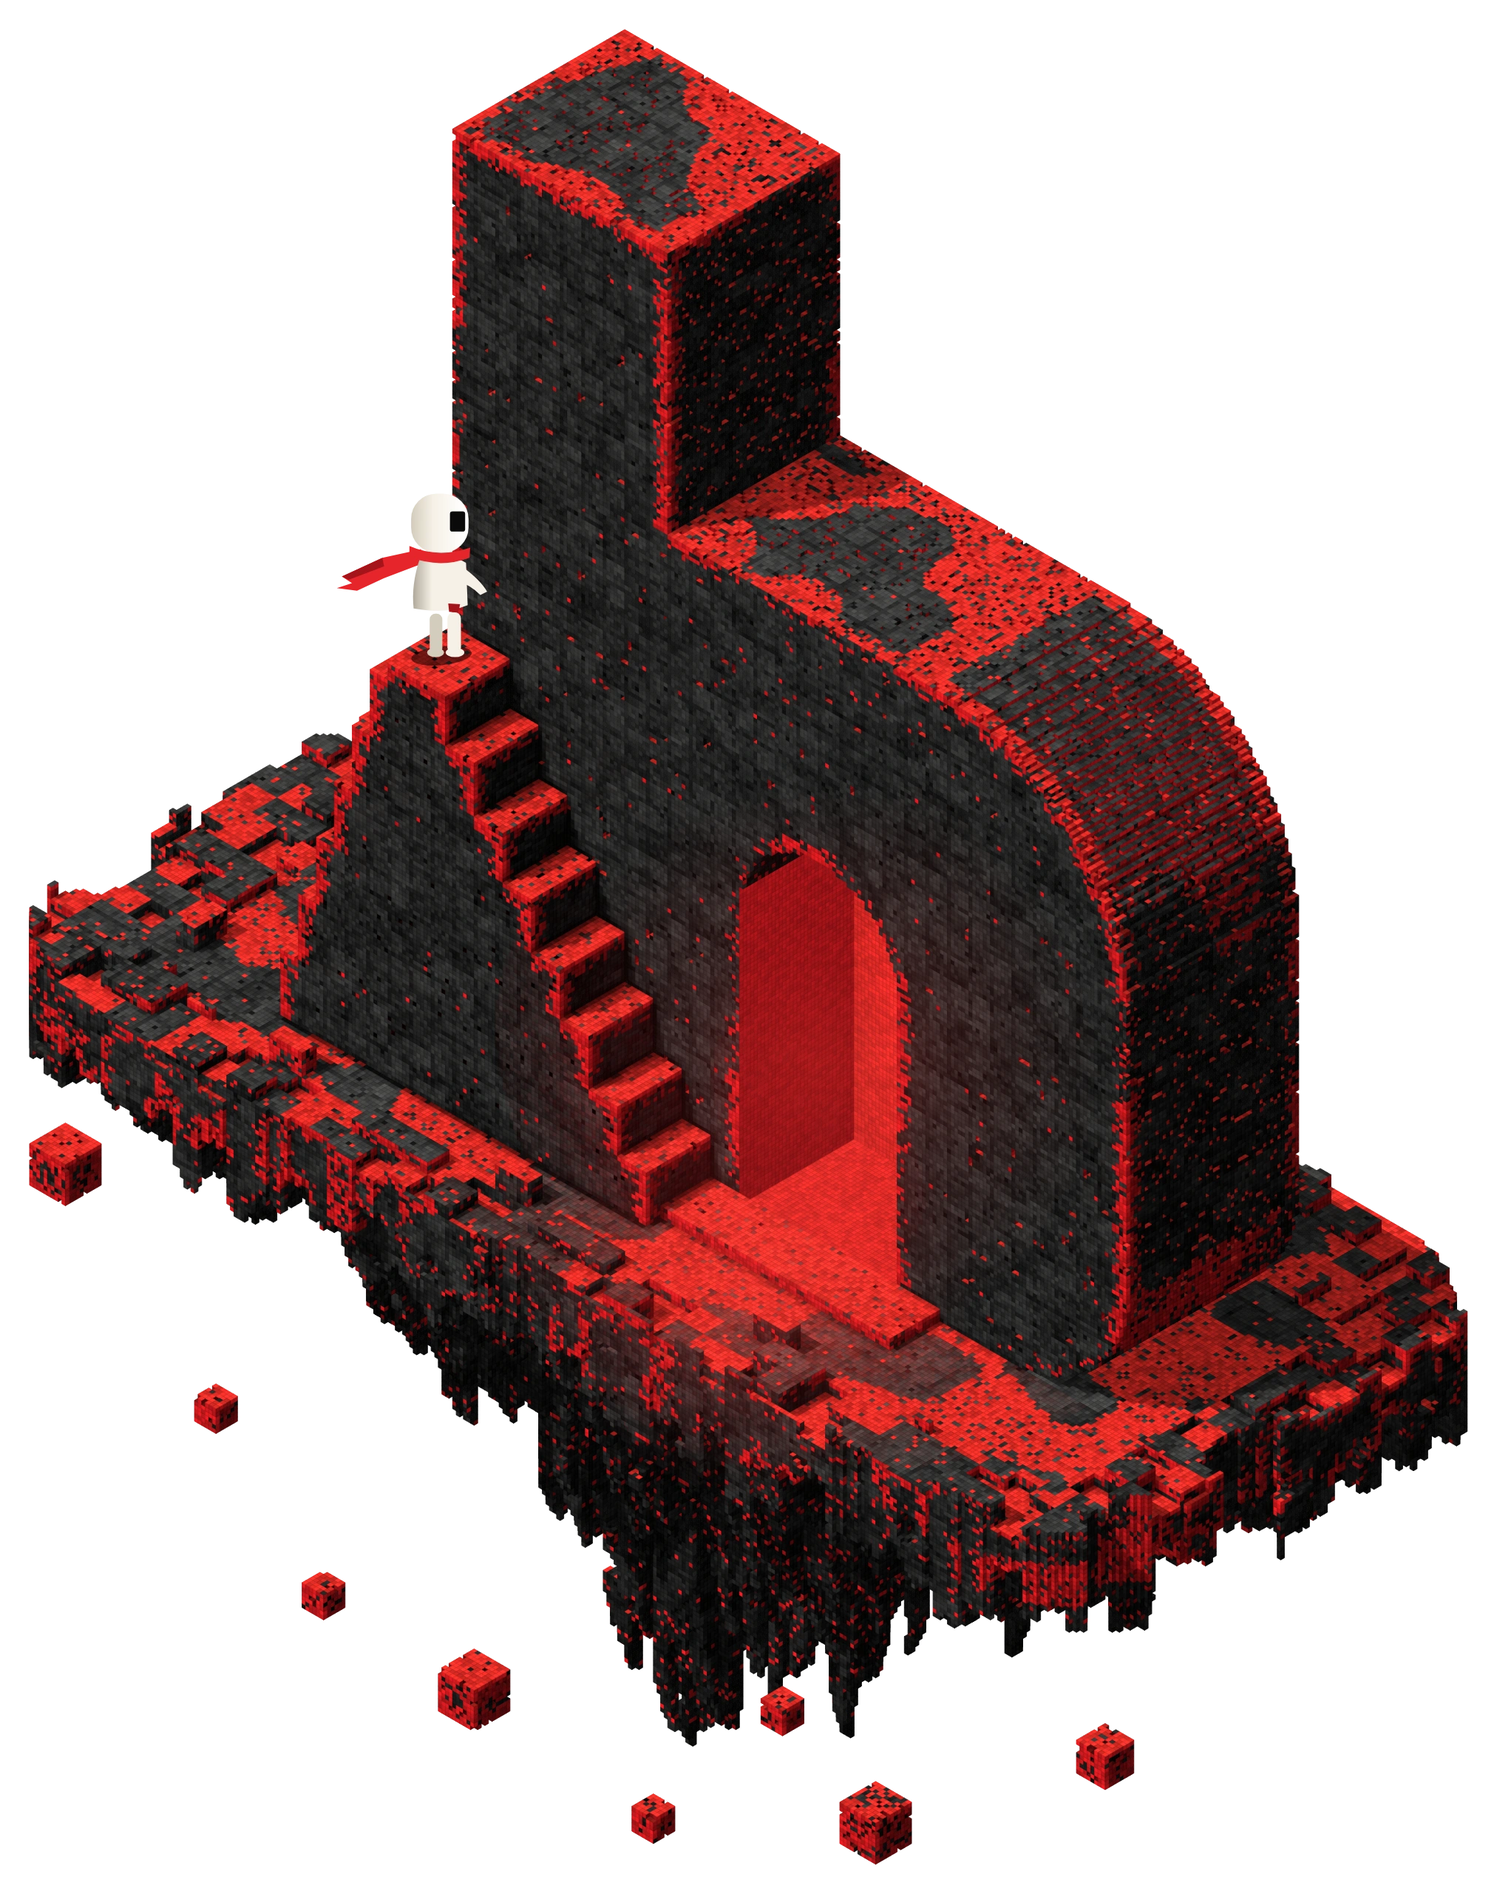
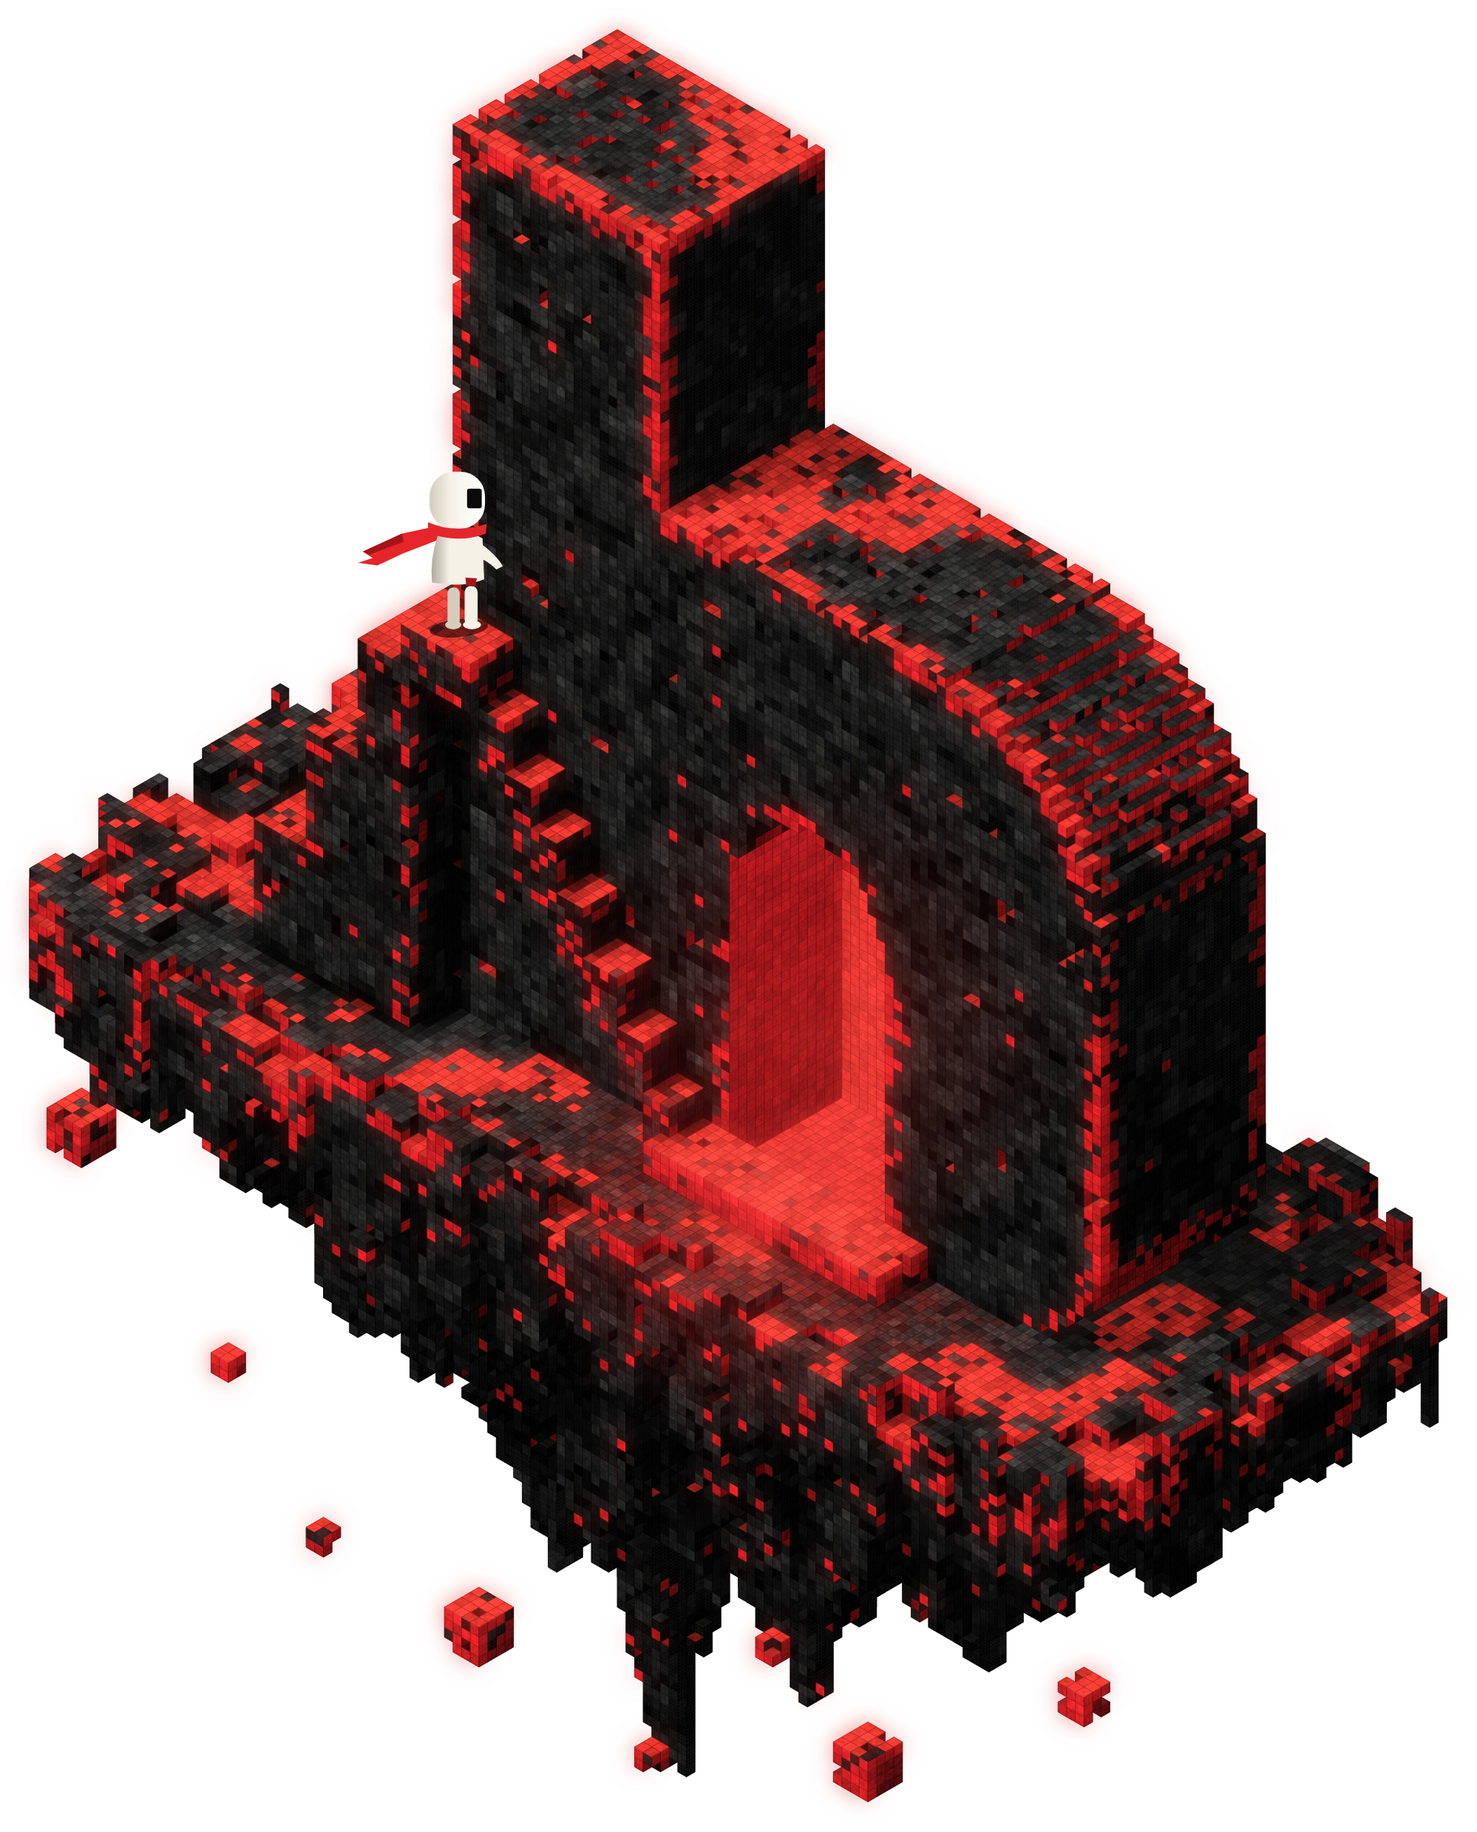
Rework sculpture: chunkier blocks, darker stone, red-only glow, reference-style stairs
- coarser voxel grid with painterly sub-texture and bevelled block edges
- near-black stone with bright red tops and rim light; glow limited to red surfaces
- left side is a block of big steps, right side a thin ribbon of steps to the door
- compact floating foundation with larger rim cubes tapering to points

Claude-Session: https://claude.ai/code/session_01QzWKhTYrrY3Jd26DSiS11Q

diff --git a/tools/sculpture-render.js b/tools/sculpture-render.js
@@ -15,9 +15,10 @@
   var canvas = document.getElementById('sculpture');
   var ctx = canvas.getContext('2d');
 
-  var K = 2;                     // voxels per unit (unit = layout coordinates below)
-  var PX_PER_VOXEL = 5.6;        // output scale
-  var UNIT_PX = PX_PER_VOXEL * K;
+  var K = 0.8;                   // voxels per unit (unit = layout coordinates below); smaller = chunkier blocks
+  function R(v) { return Math.round(v * K); }
+  var UNIT_PX = 10.8;            // output scale, px per unit
+  var PX_PER_VOXEL = UNIT_PX / K;
 
   /* ---------- palette (red tied to DESIGN.md #D51D22) ---------- */
   var RED_TOP = [255, 54, 46];
@@ -48,8 +49,8 @@
   }
 
   /* ---------- voxel grid (indices are voxels; geometry is written in units) ---------- */
-  var OX = 44 * K, OY = 56 * K, OZ = 112 * K;
-  var NX = 200 * K, NY = 124 * K, NZ = 250 * K;
+  var OX = R(44), OY = R(56), OZ = R(112);
+  var NX = R(200), NY = R(124), NZ = R(250);
   var solid = new Uint8Array(NX * NY * NZ);
   var chips = [];                 // voxels removed after the clean shape is captured (weathering)
   var shape = null;               // clean shape, used for rim light so chips do not read as edges
@@ -88,37 +89,35 @@
     return inCircle(X, Z, DOOR.cx, DOOR.zRect, DOOR.r);
   }
 
-  // left flight climbs to the landing, right flight descends to the doorway
-  var STAIR_X0 = 9;
-  function stairTop(X) {
-    if (X < STAIR_X0) return 0;
-    if (X < LANDING.x0) return 8 * (Math.floor((X - STAIR_X0) / 2.5) + 1);
-    if (X < LANDING.x1) return LANDING.z;
-    var k = Math.floor((X - LANDING.x1) / 4);
-    var z = LANDING.z - 6.25 * k;
-    return z > 3 ? z : 0;
+  // Left: a block of big steps climbing to the landing. Right: a thin ribbon of
+  // small steps stepping down the wall to the doorway.
+  function leftTop(X) {
+    if (X < 1) return 0;
+    return Math.min(45, 15 * (Math.floor((X - 1) / 7.5) + 1));
   }
+  var RIBBON = { x0: 28, run: 4, rise: 6, h: 8, steps: 8 };
 
   function buildLetter() {
     var i, j, k;
     // main body
-    for (i = STEM.x0 * K; i < BOWL.x1 * K; i++) {
+    for (i = R(STEM.x0); i < R(BOWL.x1); i++) {
       var X = un(i);
-      for (k = 0; k < STEM.h * K; k++) {
+      for (k = 0; k < R(STEM.h); k++) {
         var Z = un(k);
         if (!inLetter(X, Z)) continue;
-        var edge = !inLetter(X - 0.6, Z) || !inLetter(X + 0.6, Z) || !inLetter(X, Z - 0.6) || !inLetter(X, Z + 0.6);
-        for (j = 0; j < BODY_Y1 * K; j++) {
-          if (inDoorOpening(X, Z) && j >= (BODY_Y1 - DOOR.recess) * K) continue; // doorway recess
+        var eps = 0.5 / K + 0.1;
+        var edge = !inLetter(X - eps, Z) || !inLetter(X + eps, Z) || !inLetter(X, Z - eps) || !inLetter(X, Z + eps);
+        for (j = 0; j < R(BODY_Y1); j++) {
+          if (inDoorOpening(X, Z) && j >= R((BODY_Y1 - DOOR.recess))) continue; // doorway recess
           put(i, j, k, 1);
           if (edge && Z > 2 && hash3(i, j, k, 41) < 0.1) chips.push(ix(i, j, k)); // chipped silhouette
         }
       }
     }
     // small weathering chips in the face, away from the doorway
-    for (i = STEM.x0 * K; i < BOWL.x1 * K; i++) {
-      for (k = 0; k < STEM.h * K; k++) {
-        var jj = BODY_Y1 * K - 1, xu = un(i), zu = un(k);
+    for (i = R(STEM.x0); i < R(BOWL.x1); i++) {
+      for (k = 0; k < R(STEM.h); k++) {
+        var jj = R(BODY_Y1) - 1, xu = un(i), zu = un(k);
         if (get(i, jj, k) && hash3(i, 0, k, 43) < 0.006 &&
             !(xu > DOOR.x0 - 4 && xu < DOOR.x1 + 4 && zu < 52)) {
           chips.push(ix(i, jj, k));
@@ -127,26 +126,42 @@
         }
       }
     }
-    // stair wedge in front of the face
-    for (i = STAIR_X0 * K; i < 62 * K; i++) {
-      var top = Math.round(stairTop(un(i)) * K);
+    // left block of big steps (own depth, a little proud of the face)
+    for (i = R(1); i < R(LANDING.x0); i++) {
+      var top = R(leftTop(un(i)));
       for (k = 0; k < top; k++) {
-        for (j = BODY_Y1 * K; j < WEDGE_Y1 * K; j++) {
+        for (j = 0; j < R((BODY_Y1 + 6)); j++) {
           put(i, j, k, 4);
-          if (k > 4 && hash3(i, j, k, 45) < 0.012) chips.push(ix(i, j, k));
+          if (k > 4 && hash3(i, j, k, 45) < 0.02) chips.push(ix(i, j, k));
+        }
+      }
+    }
+    // landing ledge the explorer stands on
+    for (i = R((LANDING.x0 - 2)); i < R((LANDING.x1 + 4)); i++) {
+      for (j = R(BODY_Y1); j < R((BODY_Y1 + 6)); j++) {
+        for (k = R((LANDING.z - 6)); k < R(LANDING.z); k++) put(i, j, k, 4);
+      }
+    }
+    // ribbon of steps down to the door
+    for (var st = 0; st < RIBBON.steps; st++) {
+      var zt = LANDING.z - RIBBON.rise * (st + 1) + RIBBON.rise;
+      if (st === 0) continue;
+      for (i = Math.round(R((RIBBON.x0 + 4 + RIBBON.run * (st - 1)))); i < Math.round(R((RIBBON.x0 + 4 + RIBBON.run * st))); i++) {
+        for (j = R(BODY_Y1); j < R((BODY_Y1 + 5)); j++) {
+          for (k = Math.max(0, Math.round(R((zt - RIBBON.h)))); k < Math.round(R(zt)); k++) put(i, j, k, 4);
         }
       }
     }
     // doorstep: red-lit tiles in front of the door
-    for (i = 59 * K; i < 92 * K; i++) {
-      for (j = BODY_Y1 * K; j < (BODY_Y1 + 7) * K; j++) {
+    for (i = R(59); i < R(92); i++) {
+      for (j = R(BODY_Y1); j < R((BODY_Y1 + 7)); j++) {
         if (hash3(i, j, 0, 46) < 0.02) continue;
         put(i, j, 0, 2); put(i, j, 1, 2); put(i, j, 2, 2);
       }
     }
   }
 
-  var PLAT = { x0: -22, x1: 130, y0: -22, y1: 46 };
+  var PLAT = { x0: -26, x1: 132, y0: -20, y1: 44 };
   var PLAT_CX = (PLAT.x0 + PLAT.x1) / 2, PLAT_CY = (PLAT.y0 + PLAT.y1) / 2;
   var PLAT_AX = (PLAT.x1 - PLAT.x0) / 2, PLAT_AY = (PLAT.y1 - PLAT.y0) / 2;
   // rounded-square distance: 0 at the centre, 1 at the rim
@@ -155,11 +170,11 @@
     return Math.pow(Math.pow(u, 7) + Math.pow(v, 7), 1 / 7);
   }
   var RIM_M = 0.8;
-  function platCell(x, y) { return hash3(Math.floor(x / 3.5), Math.floor(y / 3.5), 0, 2); }
+  function platCell(x, y) { return hash3(Math.floor(x / 5), Math.floor(y / 5), 0, 2); }
 
   function buildPlatform() {
-    for (var i = PLAT.x0 * K; i < PLAT.x1 * K; i++) {
-      for (var j = PLAT.y0 * K; j < PLAT.y1 * K; j++) {
+    for (var i = R(PLAT.x0); i < R(PLAT.x1); i++) {
+      for (var j = R(PLAT.y0); j < R(PLAT.y1); j++) {
         var x = un(i), y = un(j);
         var m = platM(x, y);
         var n = vnoise(i, j, 0, 6, 1);
@@ -169,16 +184,16 @@
         var vox = hash3(i, j, 0, 3);
         var core = 1 - m;                                                       // linear taper: inverted pyramid
         var rock = vnoise(i, j, 0, 7, 6);
-        var hang = 4 + 74 * Math.pow(core, 1.5) * (0.55 + 0.45 * rock) * (0.62 + 0.76 * cellS) + 10 * Math.pow(cellL, 1.3) * Math.pow(m, 1.2) +
-                   1.5 * vox;
-        hang = Math.round(hang * K);
+        var hang = 5 + 72 * Math.pow(core, 1.35) * (0.6 + 0.4 * rock) * (0.45 + 1.1 * cellL) + 12 * cellL * Math.pow(m, 1.2) +
+                   2 * cellS + 1 * vox;
+        hang = Math.round(R(hang));
         var inFootprint = x > -3 && x < 121 && y > -3 && y < 37;
         var top = -1;
-        if (m > RIM_M && !inFootprint) top += Math.round((cellL < 0.28 ? -1.5 : cellL > 0.78 ? 1.5 : 0) * K);   // rim cubes stand out
-        else if (!inFootprint && hash3(Math.floor(x / 4.5), Math.floor(y / 4.5), 1, 5) > 0.93) top += 3 * K;
+        if (m > RIM_M && !inFootprint) top += Math.round(R((cellL < 0.3 ? -2.5 : cellL > 0.75 ? 2.5 : 0)));   // rim cubes stand out
+        else if (!inFootprint && hash3(Math.floor(x / 4.5), Math.floor(y / 4.5), 1, 5) > 0.93) top += R(3);
         for (var k = -hang; k <= top; k++) {
           put(i, j, k, 1);
-          if (k < -4 * K && vnoise(i, j, k, 3.5, 9) > 0.8) chips.push(ix(i, j, k)); // cracks in the rock
+          if (k < -R(4) && vnoise(i, j, k, 3.5, 9) > 0.8) chips.push(ix(i, j, k)); // cracks in the rock
         }
       }
     }
@@ -191,10 +206,10 @@
   ];
   function buildCubes() {
     CUBES.forEach(function (c, n) {
-      var s = c[3] * K;
+      var s = Math.max(2, R(c[3]));
       for (var a = 0; a < s; a++) for (var b = 0; b < s; b++) for (var d = 0; d < s; d++) {
         if (hash3(a, b, d + n * 7, 60) < 0.08) continue;
-        put(c[0] * K + a, c[1] * K + b, c[2] * K + d, 3);
+        put(R(c[0]) + a, R(c[1]) + b, R(c[2]) + d, 3);
       }
     });
   }
@@ -232,9 +247,9 @@
 
   function shadowed(x, y, z, f) {
     var p0 = x + 0.5 + (f === 2 ? 0.6 : 0), p1 = y + 0.5 + (f === 1 ? 0.6 : 0), p2 = z + 0.5 + (f === 0 ? 0.6 : 0);
-    for (var t = 1.4; t < 36 * K; t += 1) {
+    for (var t = 1.4; t < R(36); t += 1) {
       var qz = Math.floor(p2 + L[2] * t);
-      if (qz > 125 * K) break;
+      if (qz > R(125)) break;
       if (get(Math.floor(p0 + L[0] * t), Math.floor(p1 + L[1] * t), qz)) return 1;
     }
     return 0;
@@ -259,7 +274,7 @@
              : f === 1 ? [[1, 0, 0], [-1, 0, 0], [0, 0, 1], [0, 0, -1]]
              :           [[0, 1, 0], [0, -1, 0], [0, 0, 1], [0, 0, -1]];
     var best = 0;
-    for (var d = 1; d <= 4; d++) {
+    for (var d = 1; d <= 2; d++) {
       for (var q = 0; q < 4; q++) {
         var v = dirs[q];
         var qx = x + d * v[0], qy = y + d * v[1], qz = z + d * v[2];
@@ -269,8 +284,8 @@
     return best;
   }
 
-  var DOOR_BACK_J = (BODY_Y1 - DOOR.recess) * K - 1;
-  var DOOR_LEFT_I = DOOR.x0 * K - 1;
+  var DOOR_BACK_J = R((BODY_Y1 - DOOR.recess)) - 1;
+  var DOOR_LEFT_I = R(DOOR.x0) - 1;
   function doorFace(x, y, z, f) {
     var xu = un(x), yu = un(y);
     if (xu < DOOR.x0 - 1 || xu > DOOR.x1 + 1) return 0;
@@ -299,26 +314,26 @@
     }
 
     /* charcoal stone */
-    var jit = (hash3(x, y, z, 10 + f) - 0.5) * 20 + (hash3(x >> 2, y >> 2, z >> 2, 14 + f) - 0.5) * 16 +
-              (hash3(Math.floor(x / 6), Math.floor(y / 6), Math.floor(z / 6), 17 + f) - 0.5) * 12 + (vnoise(x, y, z, 2.5, 20) - 0.5) * 14;
-    var base0 = f === 0 ? 62 : f === 1 ? 40 : 25;
+    var jit = (hash3(x, y, z, 10 + f) - 0.5) * 20 + (hash3(x >> 1, y >> 1, z >> 1, 14 + f) - 0.5) * 16 +
+              (hash3(Math.floor(x / 3), Math.floor(y / 3), Math.floor(z / 3), 17 + f) - 0.5) * 20 + (vnoise(x, y, z, 2.5, 20) - 0.5) * 14;
+    var base0 = f === 0 ? 46 : f === 1 ? 28 : 16;
     var g = base0 + jit;
     // dark seams between larger 3-unit blocks, with the odd gap
     var sa = f === 0 ? x : f === 1 ? x : y, sb = f === 0 ? y : z;
-    if ((sa % 6 === 0 || sb % 6 === 0) && hash3(x, y, z, 19) > 0.25) g *= 0.7;
+    if ((sa % 3 === 0 || sb % 3 === 0) && hash3(x, y, z, 19) > 0.4) g *= 0.74;
     if (hash3(x, y, z, 21) < 0.012) g *= 0.35;                            // pits
     var ao = aoOf(x, y, z, f);
     g *= 1 - 0.5 * ao;
     var sh = shadowed(x, y, z, f);
     if (sh) g *= 0.5;
-    if (z < -6 * K) g *= 1 - 0.32 * Math.min(1, -zu / 70);
-    g = Math.max(5, g);
+    if (z < -R(6)) g *= 1 - 0.32 * Math.min(1, -zu / 70);
+    g = Math.max(4, g);
     var stone = [g, g, g * 0.98];
 
     /* red: flat top surfaces, rim light on convex edges, rare specks */
     var deep = zu < -9 && mat !== 3;
     var rim = rimOf(x, y, z, f);
-    var rimP = rim === 0 ? 0 : (mat === 1 && zu <= 0 ? [0, 0.85, 0.6, 0.3, 0.1] : [0, 0.92, 0.82, 0.55, 0.28])[rim];
+    var rimP = rim === 0 ? 0 : (mat === 1 && zu <= 0 ? [0, 0.7, 0.3] : [0, 0.9, 0.5])[rim];
     var p = 0;
     if (f === 0) {
       var curved = mat === 1 && xu > BOWL.x1 - BOWL.rTop && zu > BOWL.h - BOWL.rTop - 2 && zu > 20 && yu >= 0 && yu < BODY_Y1;
@@ -327,13 +342,13 @@
       } else {
         var patch = vnoise(x, y, 0, 8, 31 + (z & 3));
         var onRim = mat === 1 && zu <= 2 && platM(xu, yu) > RIM_M && !(xu > -3 && xu < 121 && yu > -3 && yu < 37);
-        if (patch > (zu <= 0 && mat === 1 ? 0.54 : 0.44)) p = hash3(x, y, z, 33) < 0.1 ? 0.2 : 0.95;
+        if (patch > (zu <= 0 && mat === 1 ? 0.66 : 0.5)) p = hash3(x, y, z, 33) < 0.1 ? 0.2 : 0.95;
         if (mat === 4 || mat === 2) p = 0.93;
-        if (onRim) p = platCell(xu, yu) < 0.52 ? 0.96 : 0.06;              // chunky red / black cubes along the rim
+        if (onRim) p = platCell(xu, yu) < 0.36 ? 0.96 : 0.05;              // chunky red / black cubes along the rim
         else p = Math.max(p, rimP);
       }
     } else {
-      var gate = mat === 3 || mat === 4 ? 1 : (vnoise(x, y, z, 9, 30) > 0.46 ? 1 : 0.25);
+      var gate = mat === 3 ? 1 : mat === 4 ? 0.3 : (vnoise(x, y, z, 9, 30) > 0.46 ? 1 : 0.25);
       p = rimP * gate;
       if (mat === 2) p = 0.9;
     }
@@ -360,8 +375,9 @@
 
   function rgb(c) { return 'rgb(' + (c[0] | 0) + ',' + (c[1] | 0) + ',' + (c[2] | 0) + ')'; }
 
+  var SUB = 3;
   function face(x, y, z, f, mat) {
-    var col = rgb(shade(x, y, z, f, mat)), p;
+    var c = shade(x, y, z, f, mat), p;
     if (f === 0) {
       p = [px(x, y), py(x, y, z + 1), px(x + 1, y), py(x + 1, y, z + 1), px(x + 1, y + 1), py(x + 1, y + 1, z + 1), px(x, y + 1), py(x, y + 1, z + 1)];
     } else if (f === 1) {
@@ -369,13 +385,31 @@
     } else {
       p = [px(x + 1, y), py(x + 1, y, z), px(x + 1, y + 1), py(x + 1, y + 1, z), px(x + 1, y + 1), py(x + 1, y + 1, z + 1), px(x + 1, y), py(x + 1, y, z + 1)];
     }
+    // painterly grain: each block face is split into sub-cells with their own brightness
+    var isRed = c[0] > 90 && c[0] > c[1] * 2.2;
+    var amp = isRed ? 0.2 : 0.34;
+    var ux = (p[2] - p[0]) / SUB, uy = (p[3] - p[1]) / SUB, vx = (p[6] - p[0]) / SUB, vy = (p[7] - p[1]) / SUB;
+    ctx.lineWidth = 0.7;
+    for (var a = 0; a < SUB; a++) {
+      for (var b = 0; b < SUB; b++) {
+        var k = 1 + (hash3(x * 3 + a, y * 3 + b, z * 3 + f, 120 + f) - 0.5) * amp;
+        var col = 'rgb(' + Math.min(255, c[0] * k | 0) + ',' + Math.min(255, c[1] * k | 0) + ',' + Math.min(255, c[2] * k | 0) + ')';
+        var x0 = p[0] + ux * a + vx * b, y0 = p[1] + uy * a + vy * b;
+        ctx.beginPath();
+        ctx.moveTo(x0, y0); ctx.lineTo(x0 + ux, y0 + uy); ctx.lineTo(x0 + ux + vx, y0 + uy + vy); ctx.lineTo(x0 + vx, y0 + vy);
+        ctx.closePath();
+        ctx.fillStyle = col; ctx.strokeStyle = col;
+        ctx.fill(); ctx.stroke();
+      }
+    }
+    // block bevel: soft light on the upper edge, dark seam round the block
     ctx.beginPath();
-    ctx.moveTo(p[0], p[1]); ctx.lineTo(p[2], p[3]); ctx.lineTo(p[4], p[5]); ctx.lineTo(p[6], p[7]);
-    ctx.closePath();
-    ctx.fillStyle = col; ctx.strokeStyle = col; ctx.lineWidth = 0.8;
-    ctx.fill(); ctx.stroke();
-    ctx.strokeStyle = 'rgba(0,0,0,0.26)'; ctx.lineWidth = 0.45;       // fine voxel seam
-    ctx.stroke();
+    ctx.moveTo(p[6], p[7]); ctx.lineTo(p[4], p[5]);
+    ctx.strokeStyle = isRed ? 'rgba(255,170,150,0.22)' : 'rgba(255,255,255,0.09)';
+    ctx.lineWidth = 1.2; ctx.stroke();
+    ctx.beginPath();
+    ctx.moveTo(p[0], p[1]); ctx.lineTo(p[2], p[3]); ctx.lineTo(p[4], p[5]); ctx.lineTo(p[6], p[7]); ctx.closePath();
+    ctx.strokeStyle = 'rgba(0,0,0,0.38)'; ctx.lineWidth = 0.9; ctx.stroke();
   }
 
   for (X = -OX; X < NX - OX; X++) {
@@ -389,6 +423,30 @@
       }
     }
   }
+
+  /* ---------- soft red glow around lit red surfaces (stone is left untouched) ---------- */
+  (function glow() {
+    var t = document.createElement('canvas');
+    t.width = W; t.height = H;
+    var g = t.getContext('2d');
+    g.drawImage(canvas, 0, 0);
+    var img = g.getImageData(0, 0, W, H), d = img.data;
+    for (var i = 0; i < d.length; i += 4) {
+      var r = d[i], gg = d[i + 1];
+      if (!(r > 150 && r > gg * 2.4)) d[i + 3] = 0;
+    }
+    g.putImageData(img, 0, 0);
+    var t2 = document.createElement('canvas');
+    t2.width = W; t2.height = H;
+    var g2 = t2.getContext('2d');
+    g2.filter = 'blur(' + Math.round(UNIT_PX * 1.4) + 'px)';
+    g2.drawImage(t, 0, 0);
+    ctx.save();
+    ctx.globalCompositeOperation = 'screen';
+    ctx.globalAlpha = 0.55;
+    ctx.drawImage(t2, 0, 0);
+    ctx.restore();
+  })();
 
   /* ---------- doorway bloom ---------- */
   (function bloom() {
@@ -410,7 +468,7 @@
 
   /* ---------- explorer: smooth ivory sprite with a red scarf ---------- */
   (function explorer() {
-    var fxp = px((LANDING.x0 + 1.8) * K, 29 * K), fyp = py((LANDING.x0 + 1.8) * K, 29 * K, LANDING.z * K);
+    var fxp = px((LANDING.x0 + 2.2) * K, 27 * K), fyp = py((LANDING.x0 + 2.2) * K, 27 * K, LANDING.z * K);
     var s = UNIT_PX * 1.02;                       // 1 sprite unit
     ctx.save();
     ctx.translate(fxp, fyp);

diff --git a/index.html b/index.html
@@ -46,9 +46,9 @@
       <figure class="hero__art">
         <img class="hero__sculpture"
           src="assets/sculpture.webp"
-          srcset="assets/sculpture-1000.webp 1000w, assets/sculpture.webp 2025w"
+          srcset="assets/sculpture-1000.webp 1000w, assets/sculpture.webp 1998w"
           sizes="(max-width: 900px) 100vw, 46vw"
-          width="2025" height="2561"
+          width="1998" height="2477"
           alt="A lowercase b built from small charcoal blocks, floating on a rocky island. A stairway climbs to a tiny ivory explorer in a red scarf, and a red doorway glows in the bowl."
           fetchpriority="high" decoding="async">
       </figure>
